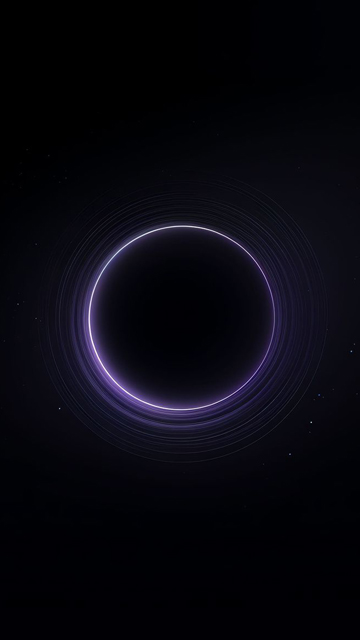
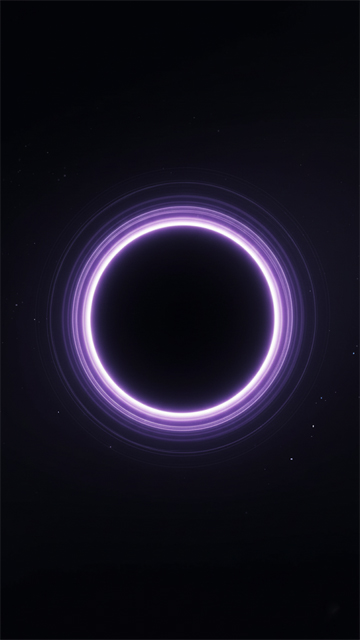
backgrond image added and fixed errors.

Changed region(s): [[0.1222, 0.2812, 0.8861, 0.7188]]

diff --git a/src/bytechats/HighQualityImagePanel.java b/src/bytechats/HighQualityImagePanel.java
@@ -1,0 +1,129 @@
+package bytechats;
+
+import java.awt.*;
+import java.awt.image.BufferedImage;
+import java.awt.image.ConvolveOp;
+import java.awt.image.Kernel;
+import java.io.IOException;
+import javax.imageio.ImageIO;
+import javax.swing.JPanel;
+
+public class HighQualityImagePanel extends JPanel {
+    private BufferedImage originalImage;
+    private BufferedImage processedImage;
+    
+    // --- Configuration for Effects ---
+    private float blurRadius = 1.5f;
+    private float darkeningFactor = 0.6f; // Increased to make the image darker
+    private float overallOpacity = 1.0f; // Set to 1.0f to prevent background bleed-through
+    // --- End Configuration ---
+
+    public HighQualityImagePanel() {
+        // ... (rest of the constructor code remains the same)
+        try {
+            java.net.URL imageUrl = getClass().getResource("/media/bg1.jpg");
+            if (imageUrl != null) {
+                originalImage = ImageIO.read(imageUrl);
+                processImage();
+            } else {
+                System.err.println("Background image not found!");
+            }
+        } catch (IOException e) {
+            e.printStackTrace();
+        }
+    }
+
+    // ... (rest of the processImage, paintComponent, and applyBlur methods)
+    private void processImage() {
+        if (originalImage == null) {
+            processedImage = null;
+            return;
+        }
+
+        BufferedImage currentImage = originalImage;
+
+        // 1. Apply Blur
+        if (blurRadius > 0.0f) {
+            currentImage = applyBlur(currentImage, blurRadius);
+        }
+
+        // 2. Apply Darkening
+        if (darkeningFactor > 0.0f) {
+            BufferedImage dimmedImage = new BufferedImage(
+                currentImage.getWidth(), currentImage.getHeight(), BufferedImage.TYPE_INT_ARGB);
+            Graphics2D g2d = dimmedImage.createGraphics();
+            
+            g2d.drawImage(currentImage, 0, 0, null);
+            g2d.setComposite(AlphaComposite.getInstance(AlphaComposite.SRC_OVER, darkeningFactor));
+            g2d.setColor(Color.BLACK);
+            g2d.fillRect(0, 0, dimmedImage.getWidth(), dimmedImage.getHeight());
+            g2d.dispose();
+            currentImage = dimmedImage;
+        }
+        
+        // 3. Apply Overall Opacity
+        if (overallOpacity < 1.0f) {
+             BufferedImage translucentImage = new BufferedImage(
+                currentImage.getWidth(), currentImage.getHeight(), BufferedImage.TYPE_INT_ARGB);
+            Graphics2D g2d = translucentImage.createGraphics();
+            g2d.setComposite(AlphaComposite.getInstance(AlphaComposite.SRC_OVER, overallOpacity));
+            g2d.drawImage(currentImage, 0, 0, null);
+            g2d.dispose();
+            currentImage = translucentImage;
+        }
+        processedImage = currentImage;
+    }
+    
+    @Override
+    protected void paintComponent(Graphics g) {
+        super.paintComponent(g);
+        if (processedImage != null) {
+            Graphics2D g2d = (Graphics2D) g.create();
+            g2d.setRenderingHint(RenderingHints.KEY_INTERPOLATION, RenderingHints.VALUE_INTERPOLATION_BILINEAR);
+            g2d.setRenderingHint(RenderingHints.KEY_RENDERING, RenderingHints.VALUE_RENDER_QUALITY);
+            g2d.setRenderingHint(RenderingHints.KEY_ANTIALIASING, RenderingHints.VALUE_ANTIALIAS_ON);
+            g2d.drawImage(processedImage, 0, 0, getWidth(), getHeight(), this);
+            g2d.dispose();
+        }
+    }
+    
+    // ... (rest of the applyBlur and setter methods)
+    private BufferedImage applyBlur(BufferedImage sourceImage, float blurRadius) {
+        if (sourceImage == null || blurRadius <= 0.0f) return sourceImage;
+        int radius = (int) Math.max(1, blurRadius);
+        int size = radius * 2 + 1;
+        float[] data = new float[size * size];
+        float sigma = blurRadius / 3.0f;
+        float sum = 0.0f;
+        for (int y = -radius; y <= radius; y++) {
+            for (int x = -radius; x <= radius; x++) {
+                float value = (float) (Math.exp(-(x * x + y * y) / (2 * sigma * sigma)) / (2 * Math.PI * sigma * sigma));
+                data[(y + radius) * size + (x + radius)] = value;
+                sum += value;
+            }
+        }
+        for (int i = 0; i < data.length; i++) {
+            data[i] /= sum;
+        }
+        Kernel kernel = new Kernel(size, size, data);
+        ConvolveOp op = new ConvolveOp(kernel, ConvolveOp.EDGE_NO_OP, null);
+        BufferedImage dest = new BufferedImage(sourceImage.getWidth(), sourceImage.getHeight(), BufferedImage.TYPE_INT_ARGB);
+        return op.filter(sourceImage, dest);
+    }
+    
+    public void setBlurRadius(float blurRadius) {
+        this.blurRadius = blurRadius;
+        processImage();
+        repaint();
+    }
+    public void setDarkeningFactor(float darkeningFactor) {
+        this.darkeningFactor = darkeningFactor;
+        processImage();
+        repaint();
+    }
+    public void setOverallOpacity(float overallOpacity) {
+        this.overallOpacity = overallOpacity;
+        processImage();
+        repaint();
+    }
+}

diff --git a/src/bytechats/Main.java b/src/bytechats/Main.java
@@ -1,57 +1,49 @@
-/*
- * Click nbfs://nbhost/SystemFileSystem/Templates/Licenses/license-default.txt to change this license
- * Click nbfs://nbhost/SystemFileSystem/Templates/GUIForms/JFrame.java to edit this template
- */
+
 package bytechats;
 
-/**
- *
- * @author Asus
- */
+
+
 public class Main extends javax.swing.JFrame {
     
     private static final java.util.logging.Logger logger = java.util.logging.Logger.getLogger(Main.class.getName());
 
-    /**
-     * Creates new form Main
-     */
     public Main() {
         initComponents();
+        try {
+        java.net.URL iconURL = getClass().getResource("/media/appIcon.jpg");
+        if (iconURL != null) {
+            // Corrected line: Get the Image from the ImageIcon
+            this.setIconImage(new javax.swing.ImageIcon(iconURL).getImage());
+        } else {
+            System.err.println("Icon image not found at the specified path.");
+        }
+        } catch (Exception e) {
+            e.printStackTrace();
+        }
     }
 
-    /**
-     * This method is called from within the constructor to initialize the form.
-     * WARNING: Do NOT modify this code. The content of this method is always
-     * regenerated by the Form Editor.
-     */
     @SuppressWarnings("unchecked")
     // <editor-fold defaultstate="collapsed" desc="Generated Code">//GEN-BEGIN:initComponents
     private void initComponents() {
 
-        jPanel1 = new javax.swing.JPanel();
-        jLabel1 = new javax.swing.JLabel();
+        jPanel1 = new HighQualityImagePanel();
 
         setDefaultCloseOperation(javax.swing.WindowConstants.EXIT_ON_CLOSE);
+        setTitle("ByteChat");
+        setForeground(java.awt.Color.darkGray);
         setResizable(false);
 
-        jLabel1.setHorizontalAlignment(javax.swing.SwingConstants.CENTER);
-        jLabel1.setIcon(new javax.swing.ImageIcon(getClass().getResource("/media/bg.jpg"))); // NOI18N
+        jPanel1.setForeground(new java.awt.Color(0, 0, 0));
 
         javax.swing.GroupLayout jPanel1Layout = new javax.swing.GroupLayout(jPanel1);
         jPanel1.setLayout(jPanel1Layout);
         jPanel1Layout.setHorizontalGroup(
             jPanel1Layout.createParallelGroup(javax.swing.GroupLayout.Alignment.LEADING)
-            .addGroup(jPanel1Layout.createSequentialGroup()
-                .addContainerGap()
-                .addComponent(jLabel1, javax.swing.GroupLayout.DEFAULT_SIZE, javax.swing.GroupLayout.DEFAULT_SIZE, Short.MAX_VALUE)
-                .addContainerGap())
+            .addGap(0, 360, Short.MAX_VALUE)
         );
         jPanel1Layout.setVerticalGroup(
             jPanel1Layout.createParallelGroup(javax.swing.GroupLayout.Alignment.LEADING)
-            .addGroup(jPanel1Layout.createSequentialGroup()
-                .addContainerGap()
-                .addComponent(jLabel1, javax.swing.GroupLayout.DEFAULT_SIZE, javax.swing.GroupLayout.DEFAULT_SIZE, Short.MAX_VALUE)
-                .addContainerGap())
+            .addGap(0, 640, Short.MAX_VALUE)
         );
 
         javax.swing.GroupLayout layout = new javax.swing.GroupLayout(getContentPane());
@@ -69,9 +61,6 @@ public class Main extends javax.swing.JFrame {
         setLocationRelativeTo(null);
     }// </editor-fold>//GEN-END:initComponents
 
-    /**
-     * @param args the command line arguments
-     */
     public static void main(String args[]) {
         /* Set the Nimbus look and feel */
         //<editor-fold defaultstate="collapsed" desc=" Look and feel setting code (optional) ">
@@ -95,7 +84,6 @@ public class Main extends javax.swing.JFrame {
     }
 
     // Variables declaration - do not modify//GEN-BEGIN:variables
-    private javax.swing.JLabel jLabel1;
     private javax.swing.JPanel jPanel1;
     // End of variables declaration//GEN-END:variables
 }
